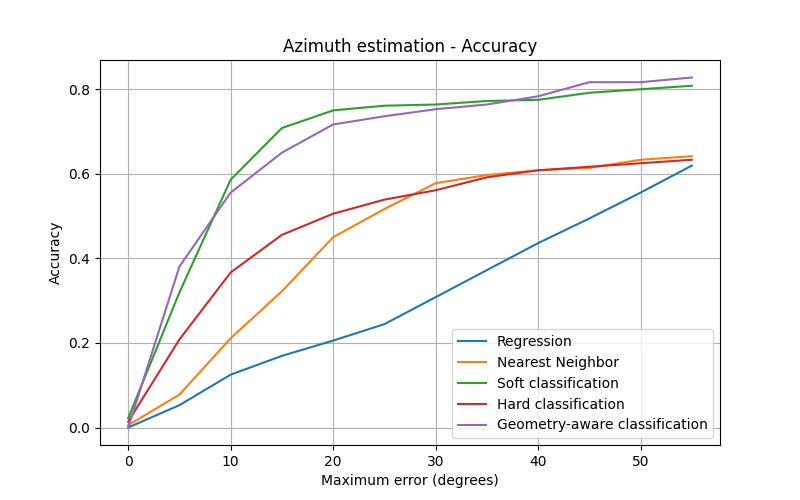
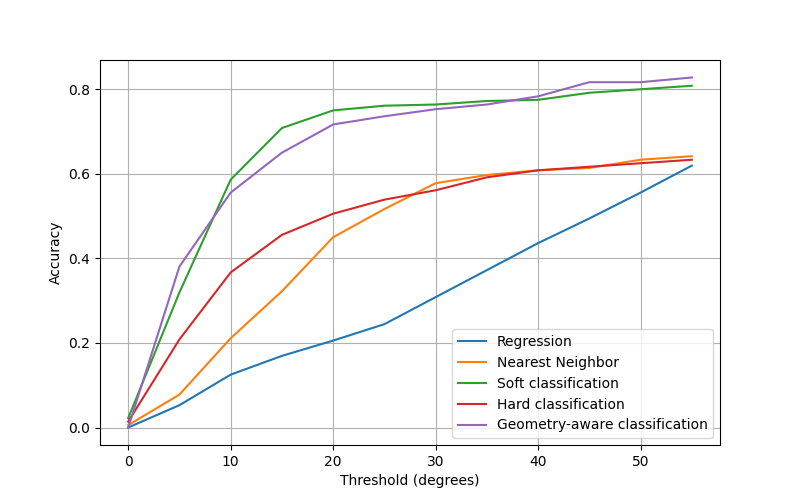
commit

Changed region(s): [[0.3438, 0.06, 0.6875, 0.12], [0.4062, 0.93, 0.625, 0.99]]

diff --git a/viewpoint-estimation/results/result.py b/viewpoint-estimation/results/result.py
@@ -22,9 +22,9 @@ medErr_soft_classification_100x100 = 15.5
 acc_soft_classification_100x100 = [0.0167, 0.2528, 0.4083, 0.4944, 0.5083, 0.5167, 0.5250, 0.5333, 0.5389, 0.5500, 0.5556, 0.5833]
 
 plt.figure(figsize=[8, 5])
-plt.title("Azimuth estimation - Accuracy")
+#plt.title("Azimuth estimation - Accuracy")
 plt.ylabel("Accuracy")
-plt.xlabel("Maximum error (degrees)")
+plt.xlabel("Threshold (degrees)")
 
 plt.plot(thresholds, acc_regression, label="Regression")
 plt.plot(thresholds, acc_knn, label="Nearest Neighbor")
@@ -36,9 +36,9 @@ plt.grid(True)
 plt.savefig("azimuth_accuracy.png")
 
 plt.figure(figsize=[8, 5])
-plt.title("Azimuth estimation accuracy- Multiscale input size")
+#plt.title("Azimuth estimation accuracy- Multiscale input size")
 plt.ylabel("Accuracy")
-plt.xlabel("Maximum error (degrees)")
+plt.xlabel("Threshold (degrees)")
 
 plt.plot(thresholds, acc_soft_classification, label=r"$400 \times 400$")
 plt.plot(thresholds, acc_soft_classification_300x300, label=r"$300 \times 300$")
@@ -54,7 +54,7 @@ medErrs = [medErr_regression, medErr_knn, medErr_hard_classification, medErr_sof
 medErrs_multiscale = [medErr_soft_classification, medErr_soft_classification_300x300, medErr_soft_classification_200x200, medErr_soft_classification_100x100]
 
 plt.figure(figsize=[7, 4])
-plt.title("Azimuth estimation - Median Error")
+#plt.title("Azimuth estimation - Median Error")
 plt.ylabel("Median Error (degrees)")
 plt.bar(0, medErrs[0], color="royalblue", label="Regression")
 plt.bar(1, medErrs[1], color="orange", label="Nearest neighbor")
@@ -67,7 +67,7 @@ plt.legend(loc="upper right")
 plt.savefig("azimuth_mederr.png")
 
 plt.figure(figsize=[4, 4])
-plt.title("Azimuth estimation Median Error - Multiscale input size")
+#plt.title("Azimuth estimation Median Error - Multiscale input size")
 plt.ylabel("Median Error (degrees)")
 plt.bar(0, medErrs_multiscale[0], color="b", label=r"$400 \times 400$")
 plt.bar(1, medErrs_multiscale[1], color="orange", label=r"$300\times 300$")

diff --git a/viewpoint-estimation/classification/cnn/one_hot_labels_geom_loss/results.py b/viewpoint-estimation/classification/cnn/one_hot_labels_geom_loss/results.py
@@ -41,7 +41,7 @@ acc_sigma0_5 = [0.0000, 0.2389, 0.4000, 0.4833, 0.5389, 0.5833, 0.6111, 0.6389, 
 plt.figure(figsize=[8, 5])
 #plt.title("Accuracy")
 plt.ylabel("Accuracy")
-plt.xlabel("Maximum error (degrees)")
+plt.xlabel("Threshold (degrees)")
 plt.plot(thresholds, acc_sigma0_5, label=r"$\sigma = 0.5$")
 plt.plot(thresholds, acc_sigma1, label=r"$\sigma = 1$")
 #plt.plot(thresholds, acc_sigma2, label=r"$\sigma = 2$")
